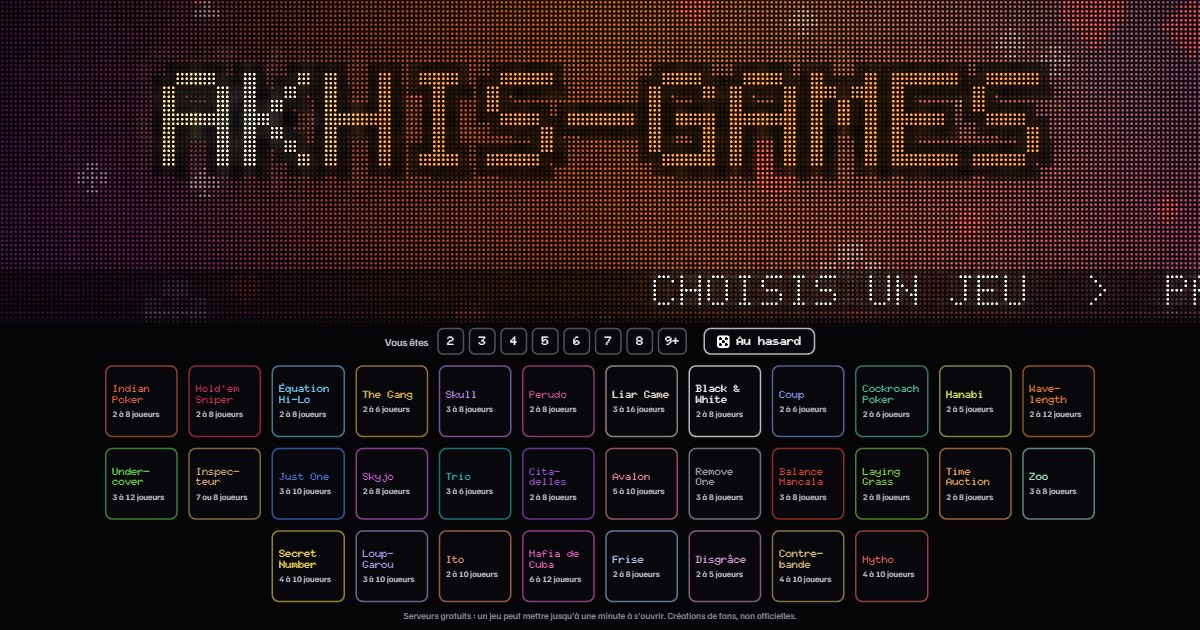
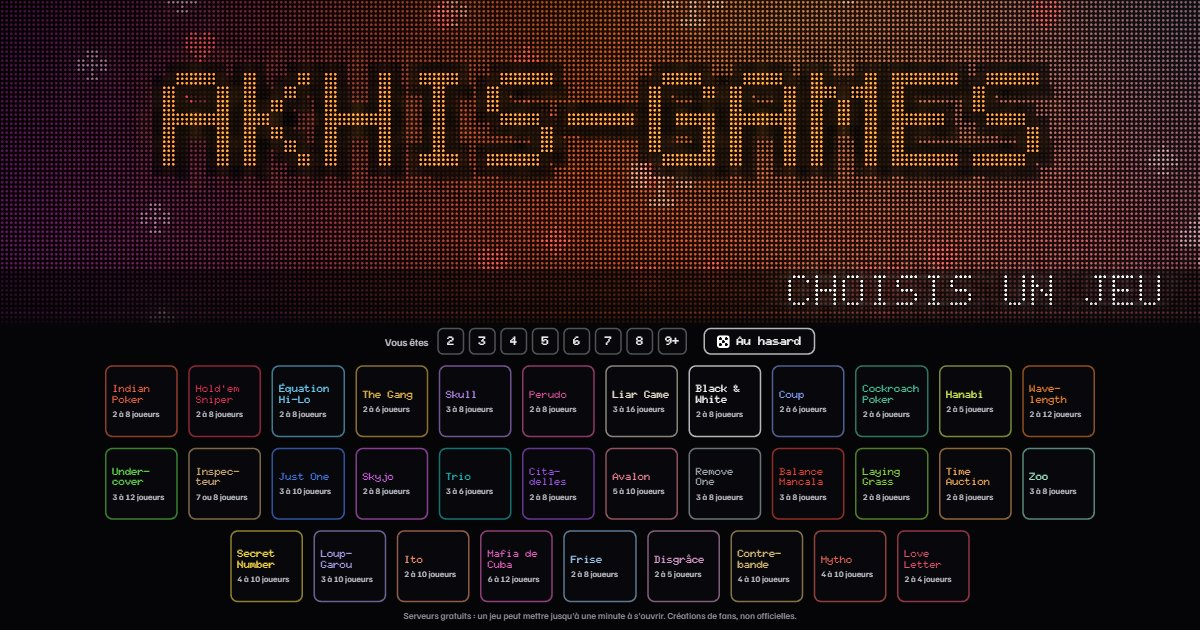
Launcher : Love Letter, avec sa scène de lettre scellée ; grille resserrée au téléphone pour 33 jeux

diff --git a/mur.js b/mur.js
@@ -3250,6 +3250,90 @@ const SCENES = {
     c.globalAlpha = 1;
     finir();
   },
+  loveletter(c, t) {
+    const z = zones(['LOVE', 'LETTER']);
+    // Une lettre d'amour en six secondes : l'enveloppe s'ouvre, la lettre en sort avec son cœur, puis elle rentre et un cachet de cire scelle le rabat.
+    const cycle = 6;
+    const p = (t % cycle) / cycle;
+    const lisse = (x) => (x <= 0 ? 0 : x >= 1 ? 1 : x * x * (3 - 2 * x));
+    for (let y = 0; y < G.h; y++) {
+      const k = y / Math.max(1, G.h);
+      c.fillStyle = `rgb(${Math.round(24 - 12 * k)},${Math.round(36 - 18 * k)},${Math.round(78 - 40 * k)})`;
+      c.fillRect(0, y, G.w, 1);
+    }
+    // Quelques étoiles qui clignent, comme une fenêtre de nuit.
+    for (let i = 0; i < 14; i++) {
+      const sx = (i * 37 + 11) % Math.max(1, G.w);
+      const sy = (i * 19 + 5) % Math.max(1, G.sur - 14);
+      if (Math.sin(t * 2 + i * 1.7) > 0.2) {
+        c.fillStyle = '#c9d3ff';
+        c.fillRect(sx, sy, 1, 1);
+      }
+    }
+    const coeur = (cx, cy, s, couleur) => {
+      const motif = ['.XX.XX.', 'XXXXXXX', 'XXXXXXX', '.XXXXX.', '..XXX..', '...X...'];
+      c.fillStyle = couleur;
+      motif.forEach((ligne, j) => {
+        for (let i = 0; i < 7; i++) if (ligne[i] === 'X') c.fillRect(Math.round(cx - 3.5 * s + i * s), Math.round(cy - 3 * s + j * s), s, s);
+      });
+    };
+    const finir = () => {
+      nom(c, ['LOVE', 'LETTER'], ['#ff5a7a', '#fbf4e4'], z);
+      bandeau(c, 'FAIS PASSER TA LETTRE JUSQU\'A L\'INFANTE. DEVINE, ESPIONNE, ELIMINE !     ', G.sur - 10, 1, '#ff5a7a', 28, t);
+    };
+    if (z.ah < 8) return finir();
+    const ew = Math.max(10, Math.min(Math.round(z.aw * 0.7), Math.round(z.ah * 1.5), 52));
+    const eh = Math.max(7, Math.round(ew * 0.64));
+    const ex = z.ax + Math.round((z.aw - ew) / 2);
+    const ey = z.ay + Math.max(2, Math.round((z.ah - eh) / 2) + 1);
+    const ouvre = p < 0.12 ? lisse(p / 0.12) : p < 0.62 ? 1 : 1 - lisse((p - 0.62) / 0.1);
+    const sort = p < 0.12 ? 0 : p < 0.4 ? lisse((p - 0.12) / 0.28) : p < 0.62 ? 1 : 1 - lisse((p - 0.62) / 0.12);
+    const fin = p >= 0.92 ? 1 - lisse((p - 0.92) / 0.08) : 1;
+    c.globalAlpha = fin;
+    // Le fond de l'enveloppe, puis la lettre qui en sort, puis l'avant de l'enveloppe.
+    c.fillStyle = '#c4b183';
+    c.fillRect(ex, ey, ew, eh);
+    const lw = ew - 4;
+    const lh = Math.max(6, eh - 1);
+    const ly = Math.round(ey + 2 - sort * Math.min(eh * 0.95, ey - z.ay + 2));
+    c.fillStyle = '#fbf4e4';
+    c.fillRect(ex + 2, ly, lw, lh);
+    c.fillStyle = '#d9c9a0';
+    for (let r = 2; r < lh - 3; r += 3) c.fillRect(ex + 4, ly + r + 3, lw - 4, 1);
+    if (sort > 0.4) coeur(ex + ew / 2, ly + Math.max(3, Math.round(lh * 0.35)), Math.max(1, Math.floor(lw / 14)), '#d42a4a');
+    c.fillStyle = '#fbf4e4';
+    c.fillRect(ex, ey + Math.round(eh * 0.42), ew, eh - Math.round(eh * 0.42));
+    c.fillStyle = '#e4d6ae';
+    for (let k = 0; k < ew / 2; k++) {
+      const dy = Math.round((k * eh * 0.5) / (ew / 2));
+      c.fillRect(ex + k, ey + Math.round(eh * 0.42) + (Math.round(eh * 0.5) - dy), 1, 1);
+      c.fillRect(ex + ew - 1 - k, ey + Math.round(eh * 0.42) + (Math.round(eh * 0.5) - dy), 1, 1);
+    }
+    // Le rabat : ouvert au-dessus, fermé en V sur l'enveloppe.
+    const rabat = Math.round(eh * 0.5);
+    c.fillStyle = ouvre > 0.5 ? '#d9c9a0' : '#fbf4e4';
+    for (let k = 0; k < ew / 2; k++) {
+      const h = Math.round(((ew / 2 - k) * rabat) / (ew / 2));
+      const y0 = ouvre > 0.5 ? ey - Math.round(h * ouvre) : ey;
+      const hh = ouvre > 0.5 ? Math.round(h * ouvre) : h;
+      c.fillRect(ex + k, y0, 1, Math.max(1, hh));
+      c.fillRect(ex + ew - 1 - k, y0, 1, Math.max(1, hh));
+    }
+    // Le cachet de cire sur le rabat fermé.
+    if (p >= 0.72) {
+      const s = Math.max(1, Math.floor(ew / 18));
+      const pop = lisse((p - 0.72) / 0.06);
+      c.globalAlpha = fin * pop;
+      coeur(ex + ew / 2, ey + Math.round(eh * 0.5), s + (pop < 1 ? 1 : 0), '#d42a4a');
+    }
+    c.globalAlpha = 1;
+    // La bordure d'enveloppe par avion, au pied de l'écran.
+    for (let x = 0; x < G.w; x++) {
+      c.fillStyle = (x + Math.floor(t * 6)) % 8 < 3 ? '#d42a4a' : (x + Math.floor(t * 6)) % 8 < 4 ? '#fbf4e4' : (x + Math.floor(t * 6)) % 8 < 7 ? '#2b5a96' : '#fbf4e4';
+      c.fillRect(x, G.sur - 13, 1, 1);
+    }
+    finir();
+  },
 };
 
 const VERTEX = 'attribute vec2 a;void main(){gl_Position=vec4(a,0.,1.);}';
@@ -3425,7 +3509,7 @@ function demarre() {
   };
 
   // Programme quand personne ne choisit : le titre, puis chaque jeu à tour de rôle.
-  const PROGRAMME = ['titre', 'indian', 'sniper', 'equation', 'gang', 'skull', 'perudo', 'liar', 'bw', 'coup', 'cockroach', 'hanabi', 'wavelength', 'undercover', 'inspecteur', 'justone', 'skyjo', 'trio', 'citadelles', 'avalon', 'removeone', 'balancemancala', 'layinggrass', 'timeauction', 'zoo', 'secretnumber', 'loupgarou', 'ito', 'mafia', 'frise', 'disgrace', 'contrebande', 'mytho'];
+  const PROGRAMME = ['titre', 'indian', 'sniper', 'equation', 'gang', 'skull', 'perudo', 'liar', 'bw', 'coup', 'cockroach', 'hanabi', 'wavelength', 'undercover', 'inspecteur', 'justone', 'skyjo', 'trio', 'citadelles', 'avalon', 'removeone', 'balancemancala', 'layinggrass', 'timeauction', 'zoo', 'secretnumber', 'loupgarou', 'ito', 'mafia', 'frise', 'disgrace', 'contrebande', 'mytho', 'loveletter'];
   let indice = 0;
   let prochain = 1000;
   let verrouille = null;
@@ -3501,7 +3585,7 @@ function demarre() {
     const b = l.getBoundingClientRect();
     return [(b.left + b.width / 2) / G.cellule, b.top / G.cellule];
   };
-  const COULEURS = { indian: [1, 0.4, 0.26], sniper: [1, 0.2, 0.33], equation: [0.43, 0.84, 1], gang: [0.96, 0.77, 0.32], skull: [0.78, 0.57, 1], perudo: [1, 0.18, 0.58], liar: [0.95, 0.92, 0.85], bw: [1, 1, 1], coup: [0.56, 0.65, 1], cockroach: [0.31, 0.82, 0.63], hanabi: [0.85, 0.94, 0.35], wavelength: [1, 0.54, 0.17], undercover: [0.4, 0.88, 0.31], inspecteur: [0.88, 0.72, 0.49], justone: [0.29, 0.53, 1], skyjo: [0.93, 0.42, 1], trio: [0.13, 0.78, 0.77], citadelles: [0.71, 0.36, 1], avalon: [1, 0.56, 0.64], removeone: [0.68, 0.72, 0.76], balancemancala: [1, 0.29, 0.24], layinggrass: [0.56, 0.86, 0.25], timeauction: [1, 0.7, 0.36], zoo: [0.62, 0.94, 0.81], secretnumber: [1, 0.88, 0.29], loupgarou: [0.72, 0.68, 1], ito: [1, 0.62, 0.48], mafia: [1, 0.42, 0.84], frise: [0.66, 0.83, 1], disgrace: [0.9, 0.64, 0.85], contrebande: [0.91, 0.79, 0.48], mytho: [1, 0.44, 0.38] };
+  const COULEURS = { indian: [1, 0.4, 0.26], sniper: [1, 0.2, 0.33], equation: [0.43, 0.84, 1], gang: [0.96, 0.77, 0.32], skull: [0.78, 0.57, 1], perudo: [1, 0.18, 0.58], liar: [0.95, 0.92, 0.85], bw: [1, 1, 1], coup: [0.56, 0.65, 1], cockroach: [0.31, 0.82, 0.63], hanabi: [0.85, 0.94, 0.35], wavelength: [1, 0.54, 0.17], undercover: [0.4, 0.88, 0.31], inspecteur: [0.88, 0.72, 0.49], justone: [0.29, 0.53, 1], skyjo: [0.93, 0.42, 1], trio: [0.13, 0.78, 0.77], citadelles: [0.71, 0.36, 1], avalon: [1, 0.56, 0.64], removeone: [0.68, 0.72, 0.76], balancemancala: [1, 0.29, 0.24], layinggrass: [0.56, 0.86, 0.25], timeauction: [1, 0.7, 0.36], zoo: [0.62, 0.94, 0.81], secretnumber: [1, 0.88, 0.29], loupgarou: [0.72, 0.68, 1], ito: [1, 0.62, 0.48], mafia: [1, 0.42, 0.84], frise: [0.66, 0.83, 1], disgrace: [0.9, 0.64, 0.85], contrebande: [0.91, 0.79, 0.48], mytho: [1, 0.44, 0.38], loveletter: [1, 0.35, 0.48] };
   liens.forEach((l) => {
     const choisit = () => {
       verrouille = l.dataset.scene;

diff --git a/styles.css b/styles.css
@@ -174,6 +174,7 @@ main {
 .is-disgrace { --c: #e6a3d8; --b: rgba(230, 163, 216, 0.55); }
 .is-contrebande { --c: #e8c97a; --b: rgba(232, 201, 122, 0.55); }
 .is-mytho { --c: #ff6f61; --b: rgba(255, 111, 97, 0.55); }
+.is-love-letter { --c: #ff5a7a; --b: rgba(255, 90, 122, 0.55); }
 
 /* Le tri par nombre de joueurs : les jeux qui ne conviennent pas s'éteignent, sans bouger de place. */
 .jeu.is-hors {
@@ -342,6 +343,19 @@ main {
   .jeu,
   .case-hasard .hasard { min-height: 36px; padding: 2px 7px; }
   .jeu-info { display: none; }
+}
+
+/* Avec 33 jeux et le tirage au sort, le téléphone compte douze rangées : on resserre encore, pour garder une scène lisible au mur. */
+@media (max-width: 759px) and (min-height: 701px) {
+  .jeux { --ecart: 3px; padding-top: 20px; }
+  .jeu,
+  .case-hasard .hasard { min-height: 41px; padding: 2px 7px; }
+  .jeu-info { margin-top: 1px; font-size: 0.66rem; }
+}
+@media (max-width: 759px) and (max-height: 700px) {
+  .jeux { --ecart: 3px; padding-top: 20px; }
+  .jeu,
+  .case-hasard .hasard { min-height: 33px; padding: 1px 6px; }
 }
 
 /* Très petit téléphone : « Cockroach » doit tenir dans son bouton. */

diff --git a/index.html b/index.html
@@ -85,6 +85,7 @@
       <li><a class="jeu is-disgrace" data-scene="disgrace" href="https://disgrace.onrender.com"><span class="jeu-nom">Disgrâce</span><span class="jeu-info">2 à 5 joueurs</span></a></li>
       <li><a class="jeu is-contrebande" data-scene="contrebande" href="https://contrebande.onrender.com"><span class="jeu-nom">Contre&shy;bande</span><span class="jeu-info">4 à 10 joueurs</span></a></li>
       <li><a class="jeu is-mytho" data-scene="mytho" href="https://mytho.onrender.com"><span class="jeu-nom">Mytho</span><span class="jeu-info">4 à 10 joueurs</span></a></li>
+      <li><a class="jeu is-love-letter" data-scene="loveletter" href="https://love-letter-ptme.onrender.com"><span class="jeu-nom">Love Letter</span><span class="jeu-info">2 à 4 joueurs</span></a></li>
       <!-- Sur téléphone, le tirage au sort prend la place libre de la dernière rangée. -->
       <li class="case-hasard"><button class="hasard" type="button"><span class="hasard-de" aria-hidden="true"></span>Au hasard</button></li>
     </ul>
